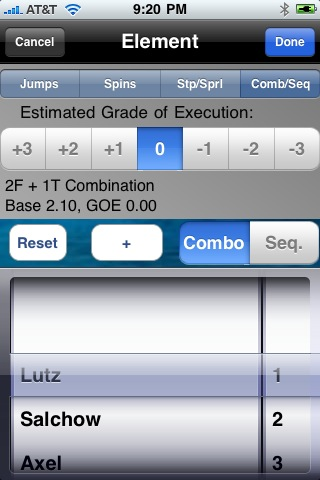
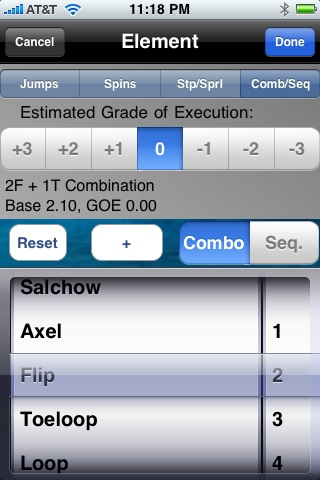
Version 1.1, the first submission, second submission after noticing issue on editing elements

diff --git a/Classes/ProgramElementDetailViewController.m b/Classes/ProgramElementDetailViewController.m
@@ -55,11 +55,29 @@
 	jumpComboElement2 = @"";
 	jumpComboElement3 = @"";
 	
-	[self presetValuesForProgramElement];
+	Element *element = [Elements getElementFor:existingProgramElement.ijsId];
+
+	if ( ! existingProgramElement.isSingleElement) {
+		elementGroupChooser.selectedSegmentIndex = 3;
+	} else if ([element.elementGroup isEqualToString:ELEMENT_GROUP_JUMPS]) {
+		elementGroupChooser.selectedSegmentIndex = 0;
+	} else if ([element.elementGroup isEqualToString:ELEMENT_GROUP_SPINS]) {
+		elementGroupChooser.selectedSegmentIndex = 1;
+	} else if ([element.elementGroup isEqualToString:ELEMENT_GROUP_STEP_SPIRAL]) {
+		elementGroupChooser.selectedSegmentIndex = 2;		
+	} else {
+		NSAssert(@"Could not identify the group for the element.", @"other");
+	}
 	
 	viewHasFinishedLoading = YES;
 //	[self refreshDisplayInfo];
-	[self performSelector:(@selector(refreshDisplayInfo)) withObject:(nil) afterDelay:0.5];
+//	[self performSelector:(@selector(refreshDisplayInfo)) withObject:(nil) afterDelay:0.5];
+}
+
+- (void)viewWillAppear:(BOOL)animated {
+	[super viewWillAppear:animated];
+	
+	[self presetValuesForProgramElement];
 }
 
 - (void)presetValuesForProgramElement {
@@ -74,7 +92,7 @@
 	Element *element = [Elements getElementFor:existingProgramElement.ijsId];
 	
 	if ( ! existingProgramElement.isSingleElement) {
-		elementGroupChooser.selectedSegmentIndex = 3;
+//		elementGroupChooser.selectedSegmentIndex = 3;
 		[self pickerView:jumpPickerView setRowForElement:existingProgramElement withArray:jumps];
 		if ([existingProgramElement.jumpComboType isEqualToString:JUMP_COMBO_TYPE_COMBO]) {
 			jumpComboSeqChooser.selectedSegmentIndex = 0;
@@ -84,15 +102,15 @@
 
 
 	} else if ([element.elementGroup isEqualToString:ELEMENT_GROUP_JUMPS]) {
-		elementGroupChooser.selectedSegmentIndex = 0;
+//		elementGroupChooser.selectedSegmentIndex = 0;
 		[self pickerView:jumpPickerView setRowForElement:existingProgramElement withArray:jumps];
 
 	} else if ([element.elementGroup isEqualToString:ELEMENT_GROUP_SPINS]) {
-		elementGroupChooser.selectedSegmentIndex = 1;
+//		elementGroupChooser.selectedSegmentIndex = 1;
 		[self pickerView:spinPickerView setRowForElement:existingProgramElement withArray:spins];
 
 	} else if ([element.elementGroup isEqualToString:ELEMENT_GROUP_STEP_SPIRAL]) {
-		elementGroupChooser.selectedSegmentIndex = 2;
+//		elementGroupChooser.selectedSegmentIndex = 2;
 		[self pickerView:stepSpiralPickerView setRowForElement:existingProgramElement withArray:steps];
 
 	} else {
@@ -115,6 +133,8 @@
 		gradeOfExecutionChooser.selectedSegmentIndex = 6;
 	}
 
+	NSLog(@"Executed presetValuesForProgramElement");
+	[self performSelector:(@selector(refreshDisplayInfo)) withObject:(nil) afterDelay:1.0];
 	
 }
 
@@ -126,6 +146,8 @@
 	if ( ! viewHasFinishedLoading) {
 		return;
 	}
+
+	NSLog(@"Executed refreshDisplayInfo");
 
 	ProgramElement *pe = [[ProgramElement alloc] init];
 	

diff --git a/Classes/RootViewController.m b/Classes/RootViewController.m
@@ -34,7 +34,7 @@
     self.navigationItem.rightBarButtonItem = addButton;
 
 	NSArray *testProgramGroups = [[ProgramGroup findByCriteria: @"WHERE 1 = 1"] retain];
-	NSLog(@"Program Group count %i", [testProgramGroups count]);
+
 	if ([testProgramGroups count] == 0) {
 		[self fabricateData];
 	}
@@ -900,10 +900,11 @@
 	
 	NSString *subject = [[NSString alloc] initWithFormat:@"%@ on iPhone/iTouch", APPLICATION_NAME];
 
-	NSString *message = [[NSString alloc] initWithFormat:@"Check out this app I've been using to calculate my figure skating IJS scores.<br />"
-						 "It's called %@ and you can <a href=\"%@\">learn more at the web site.</a>",
-						 APPLICATION_NAME, 
-						 WEB_URL];						  
+	NSString *message = [[NSString alloc] initWithFormat:@"Calculate your skating program IJS scores with <a href=\"%@\">%@</a><br />"
+						 "GET THE POINT.",
+						 WEB_URL,
+						 APPLICATION_NAME 
+						 ];						  
 	
 	
 	[controller setSubject:subject];

diff --git a/Classes/ApplicationUtilities.h b/Classes/ApplicationUtilities.h
@@ -34,7 +34,7 @@
 #define JUMP_COMBO_TYPE_SEQ		@"sequence"
 #define JUMP_COMBO_TYPE_COMBO	@"combo"
 
-#define TABLE_MAIN_LABEL_TEXT_COLOR				[UIColor colorWithRed:0.25 green:0.0 blue:0.0 alpha:1.0]
+#define TABLE_MAIN_LABEL_TEXT_COLOR				[UIColor colorWithRed:0.75 green:0.0 blue:0.0 alpha:1.0]
 #define TABLE_MAIN_LABEL_HIGHLIGHT_TEXT_COLOR	[UIColor colorWithRed:1.0 green:1.0 blue:0.9 alpha:1.0]
 
 #define TABLE_SUB_LABEL_TEXT_COLOR				[UIColor colorWithRed:0.1 green:0.1 blue:0.1 alpha:1.0]

diff --git a/Classes/SkateScoreGuideAppDelegate.m b/Classes/SkateScoreGuideAppDelegate.m
@@ -23,6 +23,7 @@
     
     // Override point for customization after app launch    
 	navigationController.navigationBar.barStyle = UIBarStyleBlackOpaque;
+	
 	[UIView setAnimationsEnabled:YES];
 	
 	[window addSubview:[navigationController view]];
